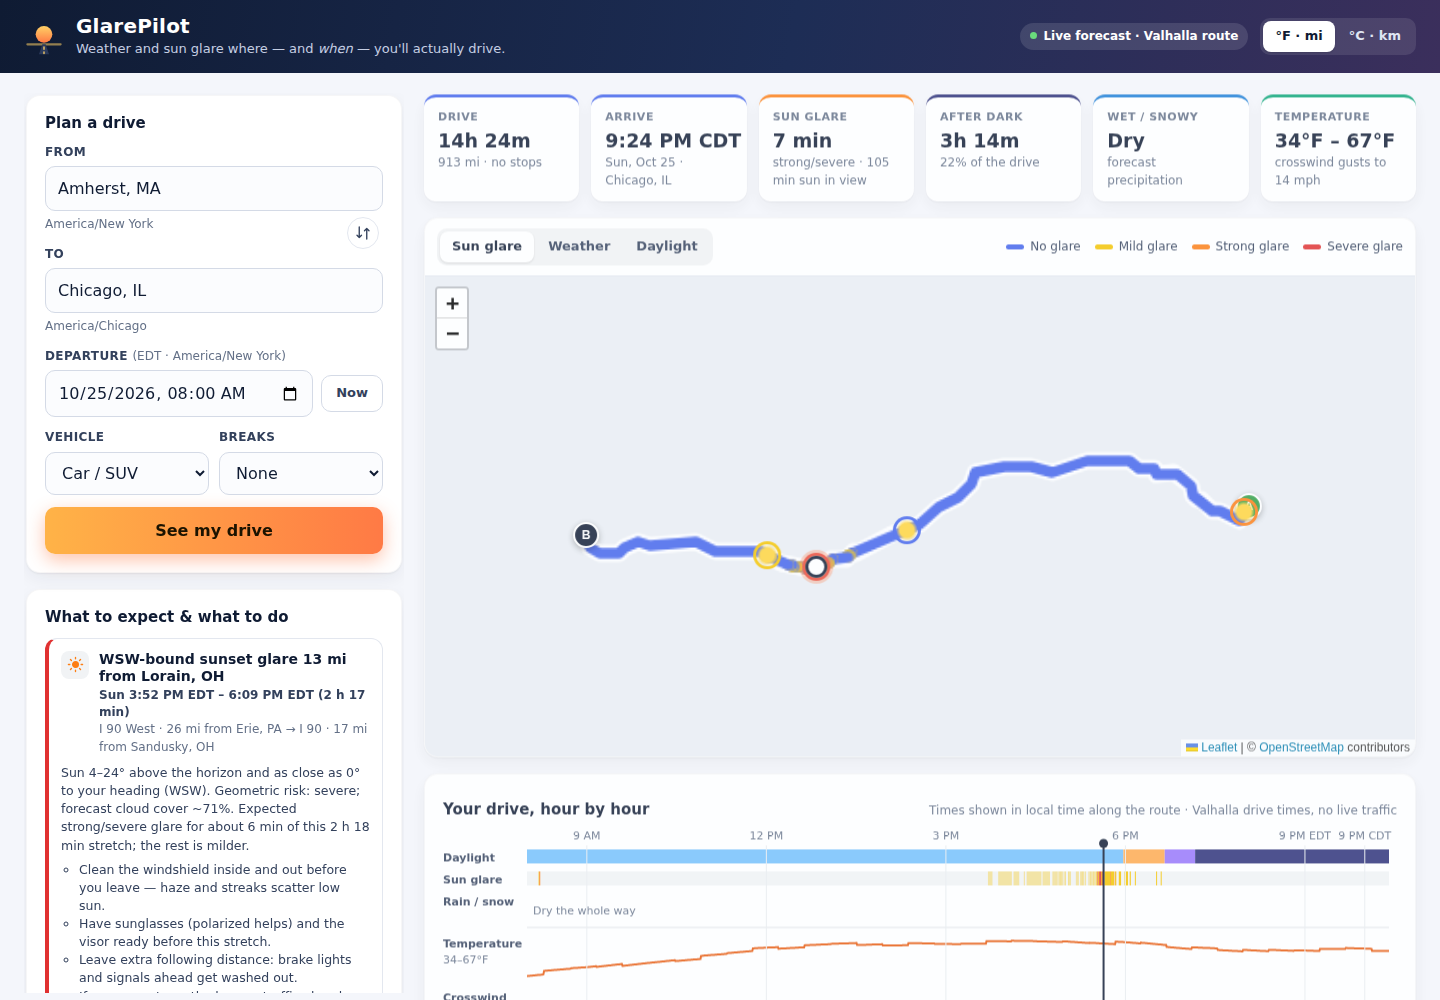
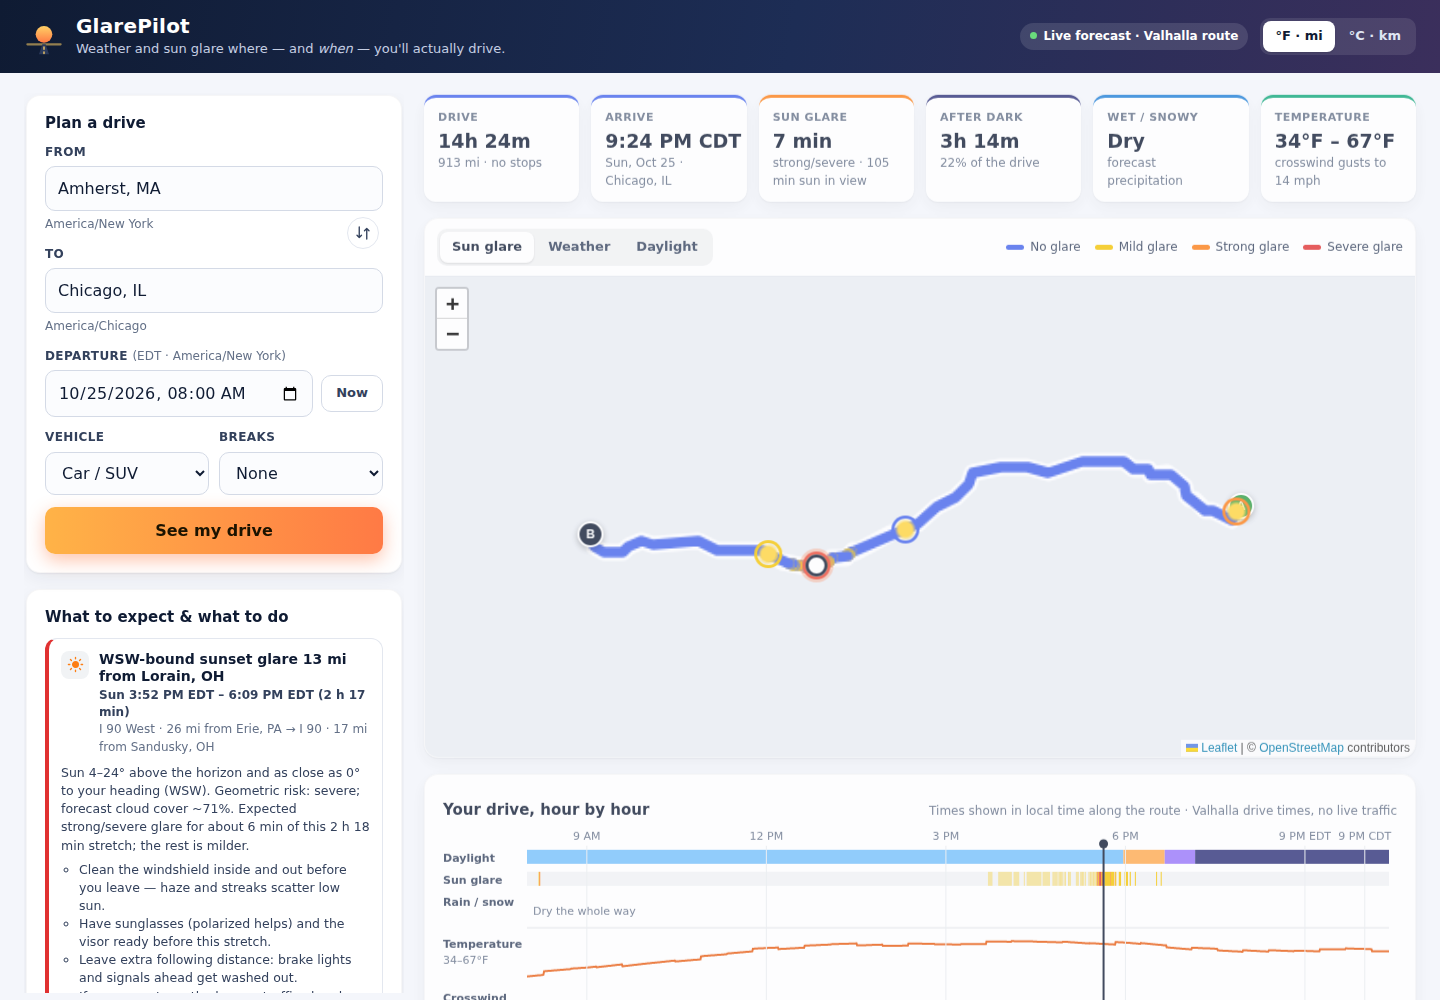
Glare priority reflects expected strong-glare minutes

diff --git a/src/lib/advice.js b/src/lib/advice.js
@@ -52,13 +52,13 @@ export function buildAdvice(model, ev, { vehicle = 'car', optimizer = null, unit
     recs.push({
       id: `glare-${w[0]}`,
       kind: 'glare',
-      priority: d.peakExpected >= 2 ? 'high' : d.peakSeverity >= 2 ? 'medium' : 'info',
+      priority: d.peakExpected >= 2 && d.strongMin >= 3 ? 'high' : d.peakSeverity >= 2 ? 'medium' : 'info',
       severity: d.peakExpected,
       weight: d.strongMin * 2 + d.minutes * 0.2,
       title: `${dir}-bound ${kindLabel} glare ${d.where.near ? d.where.near : ''}`.trim(),
       when: `${s.when} (${formatDuration(s.minutes * 60)})`,
       where: s.where === s.whereEnd ? s.where : `${s.where} → ${s.whereEnd}`,
-      why: `Sun ${Math.max(0, d.sunAltRange[0]).toFixed(0)}–${d.sunAltRange[1].toFixed(0)}° above the horizon and as close as ${d.minOffset.toFixed(0)}° to your heading (${dir}). Geometric risk: ${geomLabel}; ${cloudTxt}${muted ? `, so expected glare is ${expectedLabel}` : ''}.${d.strongMin >= 1 && d.minutes - d.strongMin >= 10 ? ` Expected strong/severe glare for about ${Math.round(d.strongMin)} min of this ${formatDuration(d.minutes * 60)} stretch; the rest is milder.` : ''}`,
+      why: `Sun ${Math.max(0, d.sunAltRange[0]).toFixed(0)}–${d.sunAltRange[1].toFixed(0)}° above the horizon and as close as ${d.minOffset.toFixed(0)}° to your heading (${dir}). Geometric risk: ${geomLabel}; ${cloudTxt}${muted ? `, so expected glare is ${expectedLabel}` : ''}.${d.peakExpected >= 2 && d.minutes - d.strongMin >= 10 ? ` Expected strong/severe glare for about ${Math.max(1, Math.round(d.strongMin))} min of this ${formatDuration(d.minutes * 60)} stretch; the rest is milder.` : ''}`,
       actions: d.peakExpected <= 1 && muted
         ? ['Clouds will likely soften this, but keep sunglasses handy in case they break.']
         : glareActions(d.peakExpected, vehicle, d.kind),
